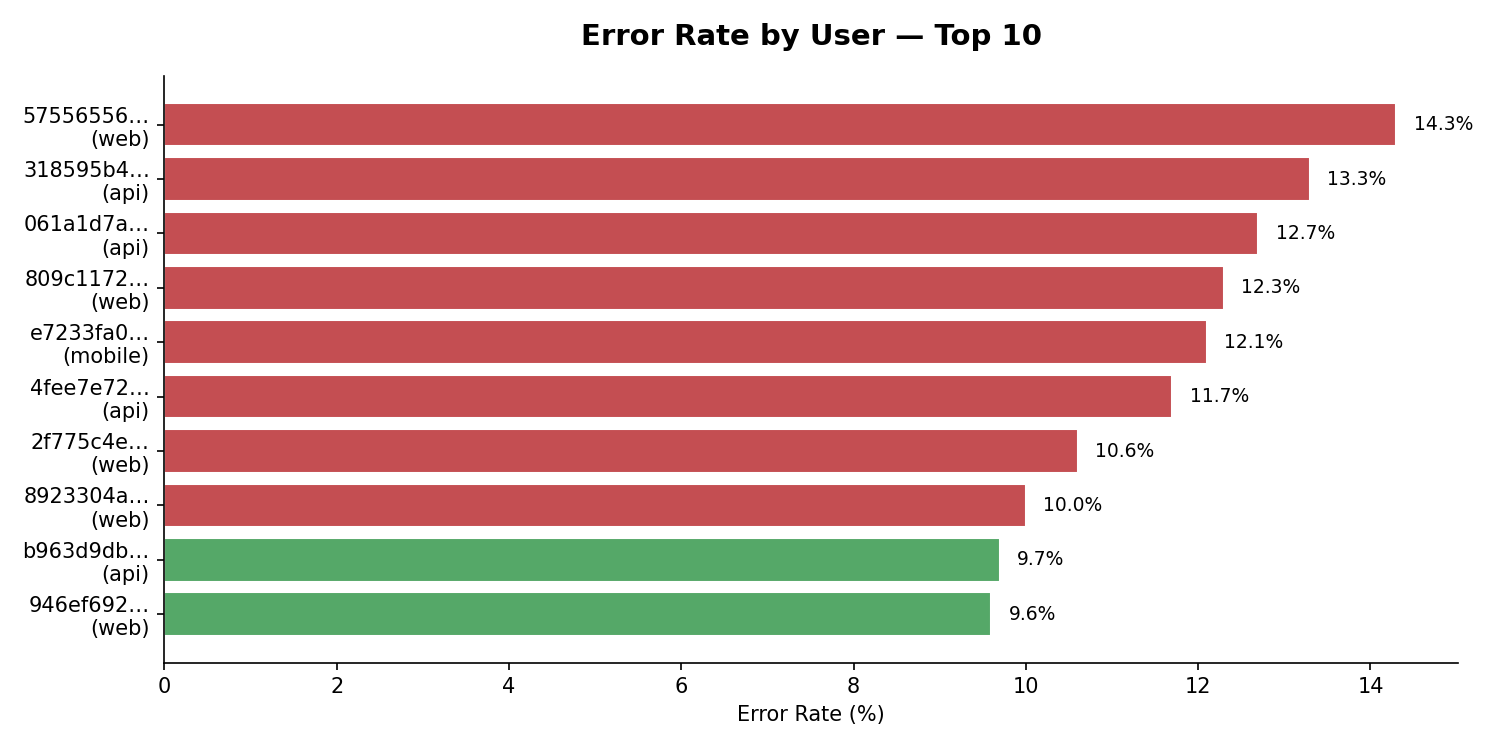
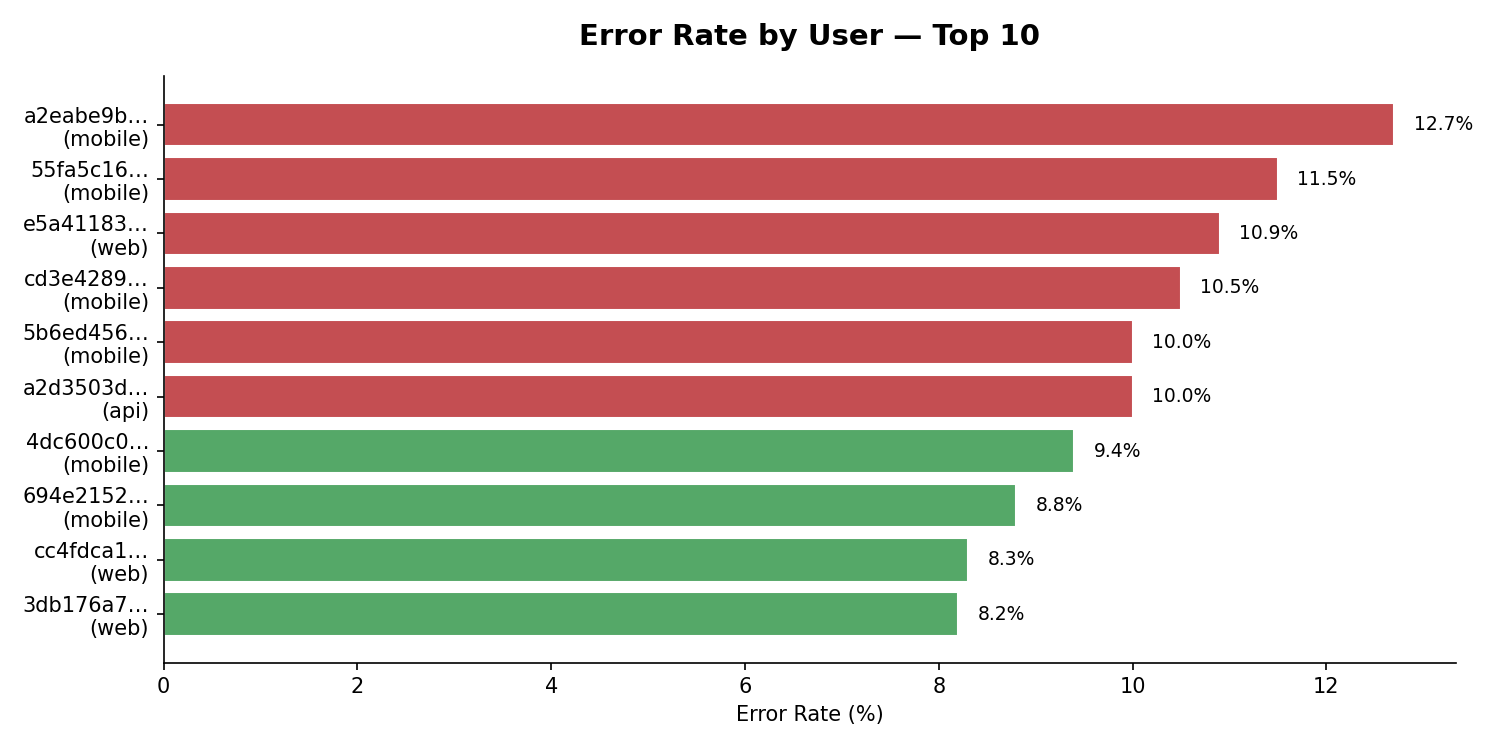
fix: 익명 볼륨 제거로 재실행 시 DB 초기화 보장
- docker-compose.yml의 /var/lib/postgresql/data 익명 볼륨 라인 제거
  → 두 번째 docker compose up에서 스키마 재로드 + 깨끗한 상태 보장
- README: "3,000건" → "약 3,000건 (±50)" — 루프 오차 반영
- PNG 3장: 최신 clean run 결과로 갱신

diff --git a/README.md b/README.md
@@ -53,7 +53,7 @@ docker compose up --build
 이 한 줄이면 다음이 순차 실행됩니다.
 
 1. **PostgreSQL 15** 기동 + 스키마/인덱스 자동 로드 (10초)
-2. **이벤트 3,000건** 생성 (`--rate 50 --duration 60`, 60초)
+2. **이벤트 약 3,000건** 생성 (`--rate 50 --duration 60`, 60초 — 루프 오차로 ±50건 변동)
 3. **PNG 차트 3장** 생성 (`docs/charts/`, 5초)
 
 완료 후 `generator`/`visualizer` 컨테이너는 자동 종료됩니다 (`Exit 0`). `postgres`는 계속 살아있으며 `docker compose down`으로 종료할 수 있습니다.
@@ -333,7 +333,7 @@ uv run pytest -q
 
 `docker-compose.yml`에 named volume을 선언하지 않았습니다.
 
-**이유**: 평가자가 `docker compose up`을 여러 번 실행해도 매번 **정확히 3,000건**으로 초기화된 상태에서 시작하기 위함. 볼륨이 있으면 이전 데이터가 누적되어 차트 수치가 매번 달라집니다.
+**이유**: 평가자가 `docker compose up`을 여러 번 실행해도 매번 **약 3,000건**(±50)으로 초기화된 상태에서 시작하기 위함. 볼륨이 있으면 이전 데이터가 누적되어 차트 수치가 매번 달라집니다.
 
 **트레이드오프**: 운영 환경에서는 당연히 영속 볼륨이 필요합니다. 이 설정은 **과제 재현성 전용**입니다.
 
